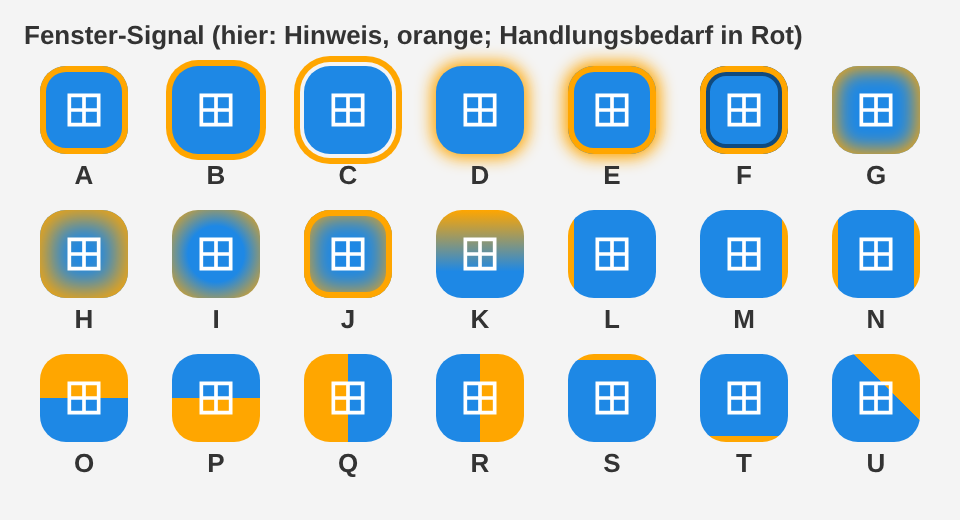
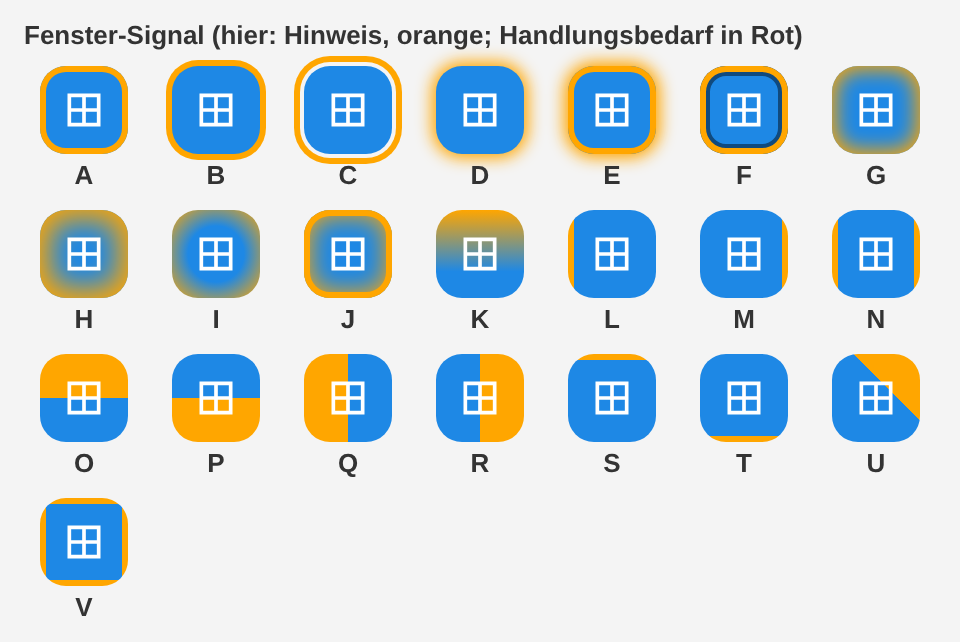
Fenster-Signal: Variante V (Balken an allen vier Seiten), Breite bis 12 px (1.8.0) (#200)
Claude-Session: https://claude.ai/code/session_016N3izbgCGyVMuvVCQ46Wp9

diff --git a/custom_components/ha_smart_ventilation/dashboard.py b/custom_components/ha_smart_ventilation/dashboard.py
@@ -58,7 +58,7 @@ MODULE_ID = "climate_status"
 MODULE_FILENAME = f"{MODULE_ID}.yaml"
 MODULE_TEMPLATE = Path(__file__).parent / "bubble" / MODULE_FILENAME
 # Muss zur "version:"-Zeile in bubble/climate_status.yaml passen (Test prüft es).
-MODULE_VERSION_LABEL = "v4.0"
+MODULE_VERSION_LABEL = "v4.1"
 
 def _num(value, default, minimum, maximum) -> float:
     try:
@@ -115,7 +115,7 @@ def build_dashboard_attributes(data: dict) -> dict:
         "wechselwert_1": extra_1,
         "wechselwert_2": extra_2,
         "fenster_signal": window_signal,
-        "fenster_signal_breite": f"{_fmt(_num(data.get(CONF_DASH_WINDOW_RING_WIDTH), DEFAULT_DASH_WINDOW_RING_WIDTH, 1, 5))}px",
+        "fenster_signal_breite": f"{_fmt(_num(data.get(CONF_DASH_WINDOW_RING_WIDTH), DEFAULT_DASH_WINDOW_RING_WIDTH, 1, 12))}px",
     }
     summer = data.get(CONF_SUMMER_MODE_SWITCH_ENTITY)
     if summer:

diff --git a/custom_components/ha_smart_ventilation/config_flow.py b/custom_components/ha_smart_ventilation/config_flow.py
@@ -1537,6 +1537,7 @@ def _build_dashboard_button_section(defaults: dict) -> dict:
         "s": "S: Balken oben",
         "t": "T: Balken unten",
         "u": "U: Ecke oben rechts",
+        "v": "V: Balken an allen vier Seiten",
     }
     fields: dict = {
         vol.Required(
@@ -1548,7 +1549,7 @@ def _build_dashboard_button_section(defaults: dict) -> dict:
             default=defaults.get(
                 CONF_DASH_WINDOW_RING_WIDTH, DEFAULT_DASH_WINDOW_RING_WIDTH
             ),
-        ): _dash_number(1, 5, "px"),
+        ): _dash_number(1, 12, "px"),
     }
     return fields
 

diff --git a/custom_components/ha_smart_ventilation/const.py b/custom_components/ha_smart_ventilation/const.py
@@ -794,6 +794,6 @@ CONF_DASH_WINDOW_SIGNAL = "dash_window_signal"  # Darstellung des Raumstatus am 
 CONF_DASH_WINDOW_RING_WIDTH = "dash_window_ring_width"  # Ringbreite in px
 DEFAULT_DASH_WINDOW_SIGNAL = "j"
 DEFAULT_DASH_WINDOW_RING_WIDTH = 2
-DASH_WINDOW_SIGNAL_OPTIONS = ("off", "a", "b", "c", "d", "e", "f", "g", "h", "i", "j", "k", "l", "m", "n", "o", "p", "q", "r", "s", "t", "u")
+DASH_WINDOW_SIGNAL_OPTIONS = ("off", "a", "b", "c", "d", "e", "f", "g", "h", "i", "j", "k", "l", "m", "n", "o", "p", "q", "r", "s", "t", "u", "v")
 
 DASHBOARD_SIGNAL = "ha_smart_ventilation_dashboard_update"

diff --git a/CLAUDE.md b/CLAUDE.md
@@ -3887,6 +3887,9 @@ Nutzer: "die balken funktionieren nicht". Ursache: In 1.6.0 stand die Kurzschrei
 **123. Fenster-Signal: Hälften/Balken/Ecke, zwei Abschnitte und Vorschaubilder im Einstellungsdialog (1.7.0, Modul v4.0).**
 Nutzerwunsch: weitere Darstellungen, u. a. "obere Hälfte eingefärbt", dazu eine Vorschau direkt beim Dropdown und eine klare Trennung, was zur Bubble Card und was zum Fenster-Button gehört. Ein Link/neuer Tab wurde verworfen (iPhone-Companion-App, Gefahr, den Dialog zu verlassen); Bilder in der Auswahlliste selbst sind in Home Assistant nicht möglich. Umsetzung: neue Varianten O (obere Hälfte), P (untere), Q (linke), R (rechte), S/T (Balken oben/unten, Breite = "Ring-/Balkenbreite"), U (Ecke oben rechts), alle deckend per `background-image` + `-position` + `-size` + `-repeat` einzeln (Lektion 122); Abschnitt aufgeteilt in `dashboard` ("Dashboard: Bubble-Card") und neu `dashboard_button` ("Dashboard: Fenster-Button") - `SECTION_DASHBOARD_BUTTON` in `_flatten_step_data()` (Lektion 49) und in alle drei Übersetzungsdateien (Lektion 55); gespeicherte Werte unverändert. Vorschaubilder `www/fenster-signal.png` (Varianten A-U mit Buchstaben, Hinweis-Farbe) und `www/bubble-card-vorschau.png` (schematisch, ausdrücklich kein Screenshot) werden als statische Pfade `/ha_smart_ventilation/<name>` ausgeliefert und per Markdown-Bild in der Abschnittsbeschreibung eingebunden. Offen/ungeprüft: ob Home Assistant Bilder in Abschnittsbeschreibungen im Options-Flow darstellt (insbesondere in der iOS-App); wenn nicht, Bilder und Beschreibung wieder entfernen und die Vorschau in der README lassen. Lektion: Eine Vorschau im Einstellungsdialog ist nur als Text oder Markdown-Bild in Beschreibungen möglich; bevor man davon abhängt, am echten Gerät prüfen, ob sie gerendert wird.
 
+**124. Fenster-Signal: Variante V (Balken an allen vier Seiten) und Breite bis 12 px (1.8.0, Modul v4.1).**
+Nutzerwunsch: Balken an allen vier Seiten als weitere Variante, und 5 px als Maximum der "Ring-/Balkenbreite" sei zu wenig. Umsetzung: V = vier Streifen als `background-image` mit einzelnen `-position`/`-size`/`-repeat`-Eigenschaften (Lektion 122); Maximum 1-12 px im Formular (`_dash_number`) UND in `build_dashboard_attributes` (`_num`-Begrenzung) - beide Stellen gemeinsam anheben, sonst wird ein höherer Formularwert still gekappt. Hinweistexte (strings/de/en), README, Vorschaubild (22 Varianten) nachgezogen. Der Chromium-Test zählt die Verläufe je Variante (V = 4). Bei 12 px verdecken vier Balken einen großen Teil der Fensterfläche (gewollt). Offen: ob die Vorschaubilder im Einstellungsdialog auf dem iPhone erscheinen; sonst aus den Beschreibungen entfernen und nur in der README lassen. Lektion: Wird ein Wertebereich im Formular geändert, alle Stellen suchen, die ihn erneut begrenzen (Backend-Clamp, Hinweistext, README).
+
 ## Versionierung & Release
 
 - Semantic Versioning in `manifest.json` (`version`): Patch für

diff --git a/README.md b/README.md
@@ -1683,7 +1683,7 @@ fehlt oder eine ältere Version enthält. Die vorherige Fassung wird einmalig al
 `/config/bubble_card/climate_status_v<alt>.yaml.bak` gesichert. Die Meldung
 "Bubble-Card-Modul climate_status angelegt/aktualisiert" steht im Log. Danach
 Browser bzw. App neu laden. Das Modul ist dann im Bubble-Card-Editor unter
-"Module" mit der Version `v4.0` zu sehen. Eigene Änderungen am Modulcode gehen
+"Module" mit der Version `v4.1` zu sehen. Eigene Änderungen am Modulcode gehen
 bei einem Update verloren, deshalb stehen alle Einstellungen in der Integration.
 Gibt es den Ordner nicht (oder liest Bubble Card die Datei nicht ein), kann der
 Modultext aus dem Integrationsordner (`bubble/climate_status.yaml`) über "Import
@@ -1726,8 +1726,8 @@ Warnfarbe (`--warning-color`), bei `handlungsbedarf` rot (`#E53935`); sonst gibt
 Darstellung wählst du in den allgemeinen Einstellungen im Abschnitt "Dashboard-Darstellung" unter
 **Fenster-Signal**: Aus, A Ring innen, B Ring außen, C Ring außen mit Lücke, D Leuchten außen, E Ring
 innen + Leuchten, F Ring innen mit dunklem Abstand, G weicher Innenschein, H stärkerer Innenschein,
-I Verlauf Rand zur Mitte, **J dünner Ring + Innenschein (Standard)**, K Verlauf von oben, L Balken links, M Balken rechts, N Balken links und rechts, O obere Hälfte, P untere Hälfte, Q linke Hälfte, R rechte Hälfte, S Balken oben, T Balken unten, U Ecke oben rechts (wie die Balken für Heizung und Rollladen, nur Status ohne Füllhöhe). Die
-**Ring-/Balkenbreite** (1-5 px, Standard 2) gilt für die Varianten mit Ring oder Balken (A, B, C, E, F, J, L, M, N, S, T). Die Einstellungen stehen in zwei Abschnitten: **Dashboard: Bubble-Card** (Kachel) und **Dashboard: Fenster-Button** (Signal); beide zeigen oben eine Vorschau (Bilder `www/fenster-signal.png`, `www/bubble-card-vorschau.png`, schematisch, kein Screenshot). Die Verläufe I/K
+I Verlauf Rand zur Mitte, **J dünner Ring + Innenschein (Standard)**, K Verlauf von oben, L Balken links, M Balken rechts, N Balken links und rechts, O obere Hälfte, P untere Hälfte, Q linke Hälfte, R rechte Hälfte, S Balken oben, T Balken unten, U Ecke oben rechts, V Balken an allen vier Seiten (wie die Balken für Heizung und Rollladen, nur Status ohne Füllhöhe). Die
+**Ring-/Balkenbreite** (1-12 px, Standard 2) gilt für die Varianten mit Ring oder Balken (A, B, C, E, F, J, L, M, N, S, T, V). Die Einstellungen stehen in zwei Abschnitten: **Dashboard: Bubble-Card** (Kachel) und **Dashboard: Fenster-Button** (Signal); beide zeigen oben eine Vorschau (Bilder `www/fenster-signal.png`, `www/bubble-card-vorschau.png`, schematisch, kein Screenshot). Die Verläufe I/K
 setzen ein Hintergrundbild auf den Button; außen liegende Varianten (B, C, D, E) können vom Container
 abgeschnitten werden. Die
 Reihenfolge der Buttons ist egal. Steht der Fensterkontakt nicht in den Sub-Buttons (oder hat der Raum
